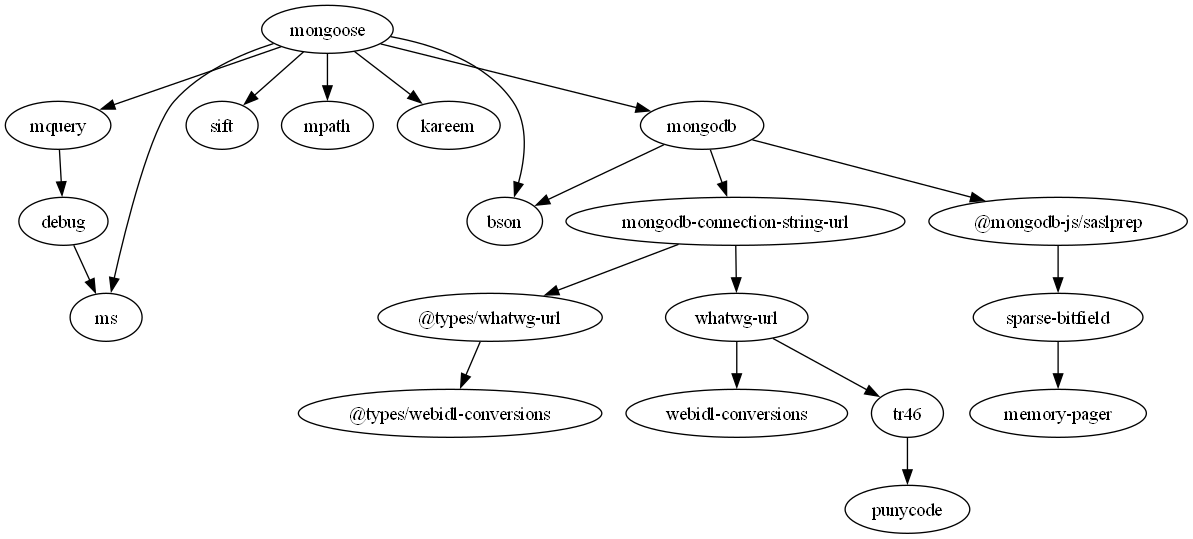
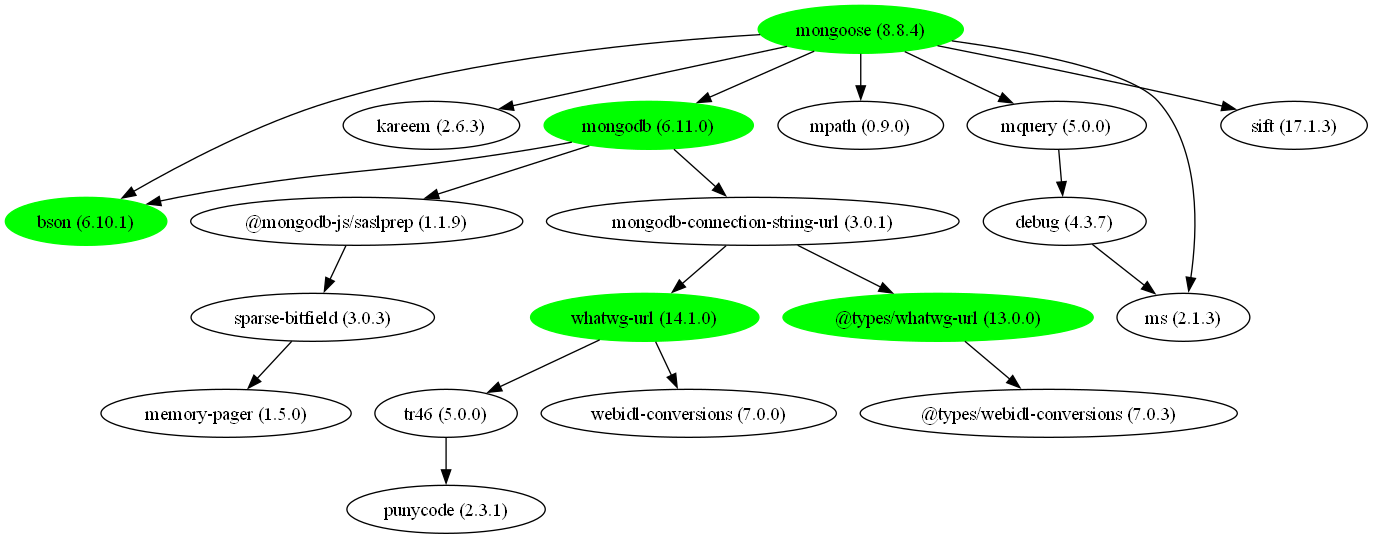
Add files via upload

diff --git a/configgraf.py b/configgraf.py
@@ -1,6 +1,7 @@
 import argparse
 import urllib.request
 import json
+from datetime import datetime, timedelta
 
 def fetch_package_dependencies(pkg_name, api_url):
     # Получение списка зависимостей для указанного пакета через предоставленный API.
@@ -13,7 +14,7 @@ def fetch_package_dependencies(pkg_name, api_url):
 
         latest_version = package_data['dist-tags']['latest']
         dependencies = package_data['versions'][latest_version].get('dependencies', {})
-        return dependencies
+        return dependencies, latest_version, package_data['time'][latest_version]
 
     except urllib.error.URLError as err:
         raise RuntimeError(f"Сетевая ошибка или неправильный URL: {err}")
@@ -24,9 +25,51 @@ def fetch_package_dependencies(pkg_name, api_url):
 def generate_graphviz_content(dependency_map):
     # Создает текстовое представление графа зависимостей в формате Graphviz.
     graph_lines = ["digraph Dependencies {"]
-    for parent, children in dependency_map.items():
+    processed_nodes = set()  # Хранение уже обработанных узлов
+
+    for parent, data in dependency_map.items():
+        version = data["version"]
+        last_updated = data["last_updated"]
+        children = data["dependencies"]
+
+        # Определяем цвет узла на основе даты обновления
+        last_update_date = datetime.strptime(last_updated, "%Y-%m-%dT%H:%M:%S.%fZ")
+        color = "green" if last_update_date >= datetime.utcnow() - timedelta(days=60) else None
+
+        if parent not in processed_nodes:
+            if color:
+                graph_lines.append(
+                    f'    "{parent}" [label="{parent} ({version})", color={color}, style="filled,solid"];'
+                )
+            else:
+                graph_lines.append(
+                    f'    "{parent}" [label="{parent} ({version})", style="solid"];'
+                )
+            processed_nodes.add(parent)
+
         for child in children:
+            child_data = dependency_map.get(child, {})
+            child_version = child_data.get("version", "unknown")
+
+            if "last_updated" in child_data:
+                child_last_updated = datetime.strptime(child_data["last_updated"], "%Y-%m-%dT%H:%M:%S.%fZ")
+                child_color = "green" if child_last_updated >= datetime.utcnow() - timedelta(days=60) else None
+            else:
+                child_color = None
+
+            if child not in processed_nodes:
+                if child_color:
+                    graph_lines.append(
+                        f'    "{child}" [label="{child} ({child_version})", color={child_color}, style="filled,solid"];'
+                    )
+                else:  # Узлы без заливки (только граница)
+                    graph_lines.append(
+                        f'    "{child}" [label="{child} ({child_version})", style="solid"];'
+                    )
+                processed_nodes.add(child)
+
             graph_lines.append(f'    "{parent}" -> "{child}";')
+
     graph_lines.append("}")
     return "\n".join(graph_lines)
 
@@ -36,16 +79,19 @@ def build_dependency_graph(pkg_name, api_url, graph=None, processed=None):
     if graph is None:
         graph = {}
     if processed is None:
-        processed = set()
+        processed = {}
 
     if pkg_name in processed:
         return graph
 
-    processed.add(pkg_name)
-
     try:
-        dependencies = fetch_package_dependencies(pkg_name, api_url)
-        graph[pkg_name] = list(dependencies.keys())
+        dependencies, latest_version, last_updated = fetch_package_dependencies(pkg_name, api_url)
+        processed[pkg_name] = (latest_version, last_updated)  # Сохраняем версию и дату обновления
+        graph[pkg_name] = {
+            "dependencies": list(dependencies.keys()),
+            "version": latest_version,
+            "last_updated": last_updated,
+        }
 
         for dependency in dependencies:
             build_dependency_graph(dependency, api_url, graph, processed)
